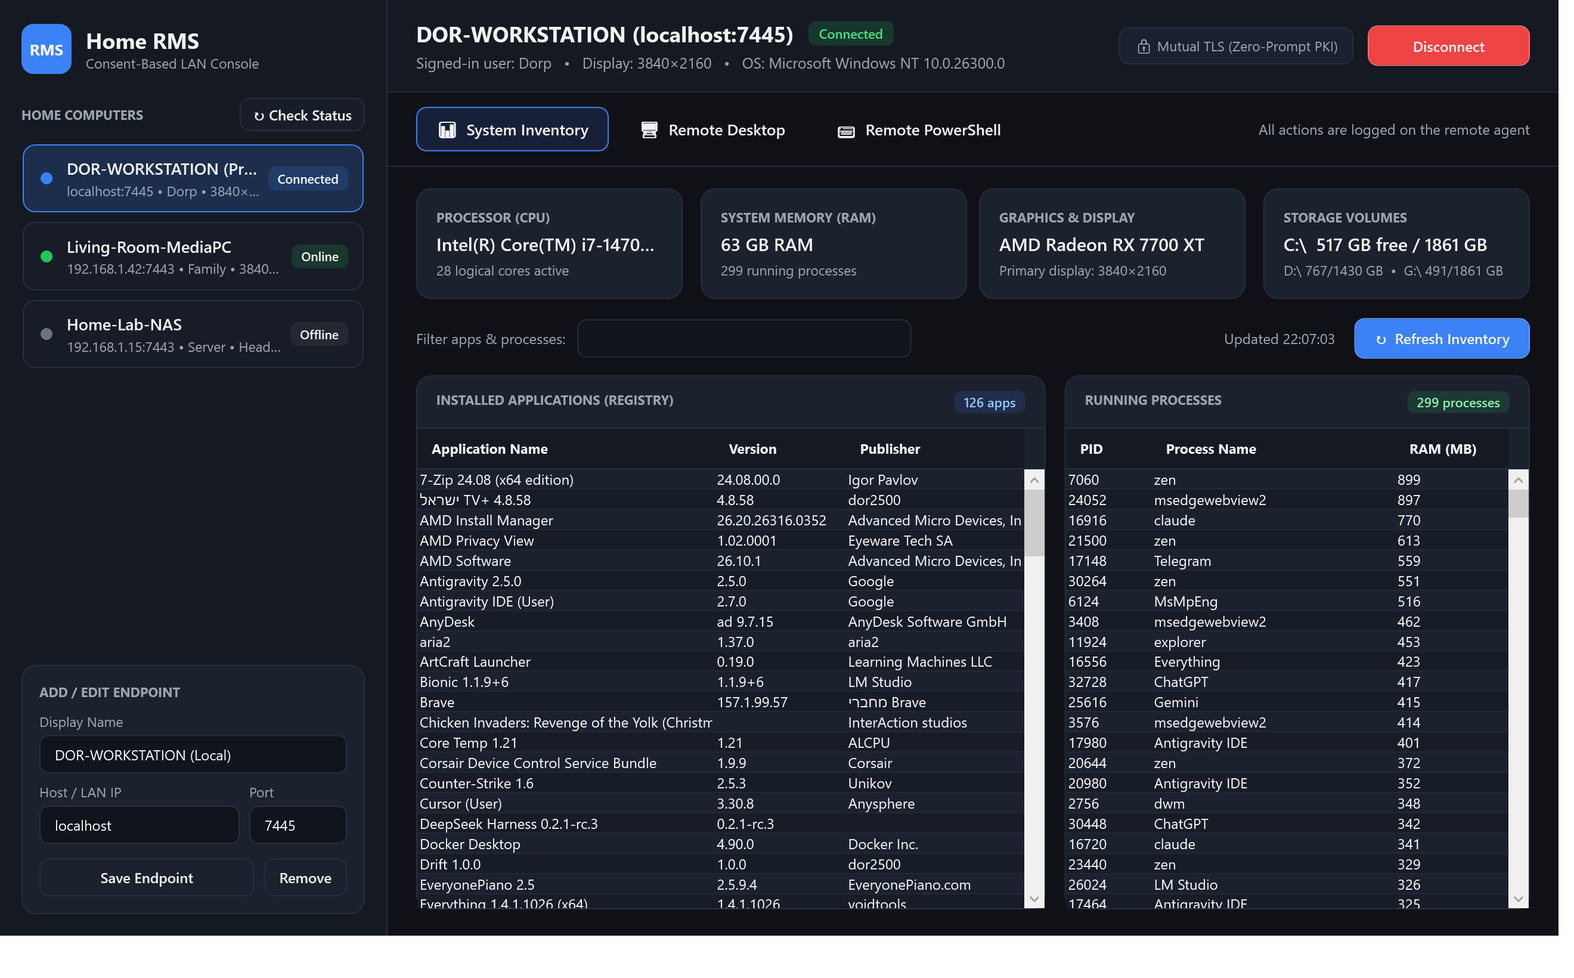
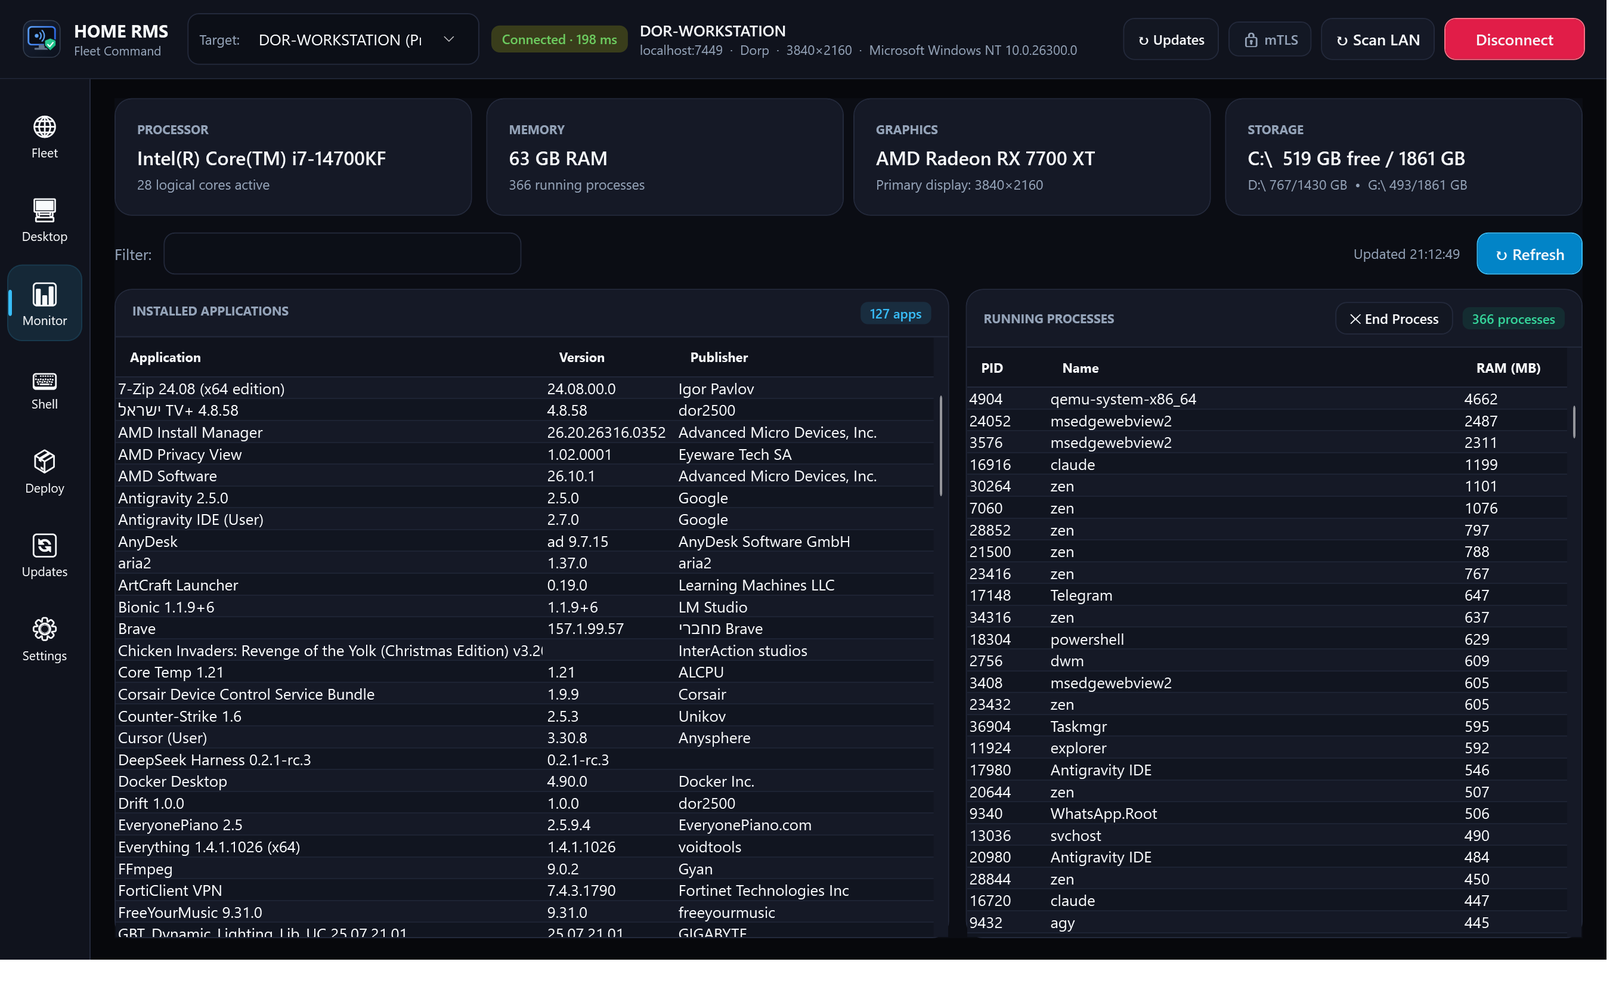
feat(v1.2.0): full platform installers, layout polish, and updated UI/UX screenshots

diff --git a/src/HomeRms.Controller/MainWindow.xaml b/src/HomeRms.Controller/MainWindow.xaml
@@ -17,38 +17,38 @@
         <!-- ==================== TOP GLOBAL COMMAND BAR ==================== -->
         <Border x:Name="TopBarBorder" Grid.Row="0" Background="{StaticResource SurfaceBrush}"
                 BorderBrush="{StaticResource LineBrush}" BorderThickness="0,0,0,1" Padding="18,11">
-            <DockPanel>
+            <DockPanel LastChildFill="True">
                 <!-- Right Action Cluster -->
-                <StackPanel DockPanel.Dock="Right" Orientation="Horizontal" VerticalAlignment="Center">
-                    <Button x:Name="UpdateBtn" Content="↻ Check Updates" Style="{StaticResource SmallPillButton}"
-                            Margin="0,0,10,0" ToolTip="Check GitHub Releases (dor2500/home-rms) for updates"
+                <StackPanel DockPanel.Dock="Right" Orientation="Horizontal" VerticalAlignment="Center" Margin="12,0,0,0">
+                    <Button x:Name="UpdateBtn" Content="↻ Updates" Style="{StaticResource SmallPillButton}"
+                            Margin="0,0,8,0" ToolTip="Check GitHub Releases (dor2500/home-rms) for updates"
                             Click="OnCheckOrApplyUpdateClick"/>
                     <Border Background="#131824" BorderBrush="{StaticResource LineBrush}" BorderThickness="1"
-                            CornerRadius="8" Padding="11,6" Margin="0,0,10,0" VerticalAlignment="Center">
-                        <TextBlock Text="🔒 mTLS PKI" FontSize="11.5" FontWeight="SemiBold" Foreground="{StaticResource MutedBrush}"/>
+                            CornerRadius="8" Padding="10,6" Margin="0,0,8,0" VerticalAlignment="Center">
+                        <TextBlock Text="🔒 mTLS" FontSize="11.5" FontWeight="SemiBold" Foreground="{StaticResource MutedBrush}"/>
                     </Border>
                     <Button x:Name="ProbeBtn" Content="↻ Scan LAN" Style="{StaticResource GhostButton}"
-                            Padding="12,7" Margin="0,0,10,0" Click="OnProbeMachinesClick"/>
-                    <Button x:Name="ConnectBtn" Content="Connect" Width="128"
+                            Padding="11,7" Margin="0,0,8,0" Click="OnProbeMachinesClick"/>
+                    <Button x:Name="ConnectBtn" Content="Connect" Width="118"
                             Style="{StaticResource PrimaryButton}" Click="OnConnectClick"/>
                 </StackPanel>
 
                 <!-- Left Brand + Active Machine Switcher -->
-                <StackPanel Orientation="Horizontal" VerticalAlignment="Center">
-                    <Image Source="Assets/controller.png" Width="34" Height="34" Margin="0,0,12,0"
+                <StackPanel DockPanel.Dock="Left" Orientation="Horizontal" VerticalAlignment="Center">
+                    <Image Source="Assets/controller.png" Width="34" Height="34" Margin="0,0,10,0"
                            RenderOptions.BitmapScalingMode="HighQuality"/>
-                    <StackPanel VerticalAlignment="Center" Margin="0,0,22,0">
+                    <StackPanel VerticalAlignment="Center" Margin="0,0,16,0">
                         <TextBlock Text="HOME RMS" FontSize="14.5" FontWeight="Bold"/>
                         <TextBlock Text="Fleet Command" FontSize="10.5" Foreground="{StaticResource MutedBrush}"/>
                     </StackPanel>
 
                     <!-- Machine Selector Pill -->
                     <Border Background="{StaticResource FieldBrush}" BorderBrush="{StaticResource LineBrush}"
-                            BorderThickness="1" CornerRadius="9" Padding="10,4" Margin="0,0,12,0">
+                            BorderThickness="1" CornerRadius="9" Padding="9,4" Margin="0,0,10,0">
                         <StackPanel Orientation="Horizontal" VerticalAlignment="Center">
                             <TextBlock Text="Target:" FontSize="11.5" Foreground="{StaticResource MutedBrush}"
-                                       VerticalAlignment="Center" Margin="0,0,8,0"/>
-                            <ComboBox x:Name="MachineSwitcher" Width="230" Background="Transparent"
+                                       VerticalAlignment="Center" Margin="0,0,6,0"/>
+                            <ComboBox x:Name="MachineSwitcher" Width="185" Background="Transparent"
                                       Foreground="{StaticResource TextBrush}" BorderThickness="0"
                                       DisplayMemberPath="DisplayTitle"
                                       SelectionChanged="OnMachineSwitcherChanged"/>
@@ -56,16 +56,17 @@
                     </Border>
 
                     <Border x:Name="ConnBadgeBorder" Background="#256B7280" CornerRadius="7"
-                            Padding="10,4" Margin="0,0,12,0" VerticalAlignment="Center">
+                            Padding="9,4" Margin="0,0,10,0" VerticalAlignment="Center">
                         <TextBlock x:Name="ConnBadgeText" Text="Disconnected" FontSize="11"
                                    FontWeight="SemiBold" Foreground="{StaticResource MutedBrush}"/>
                     </Border>
+                </StackPanel>
 
-                    <StackPanel VerticalAlignment="Center">
-                        <TextBlock x:Name="TargetTitleText" Text="No active session" FontSize="13" FontWeight="SemiBold"/>
-                        <TextBlock x:Name="StatusText" Text="Select a machine in Fleet or Scan LAN to connect."
-                                   FontSize="11" Foreground="{StaticResource MutedBrush}" MaxWidth="360" TextTrimming="CharacterEllipsis"/>
-                    </StackPanel>
+                <!-- Center Status (fills remaining space cleanly without ever overlapping buttons) -->
+                <StackPanel VerticalAlignment="Center">
+                    <TextBlock x:Name="TargetTitleText" Text="No active session" FontSize="13" FontWeight="SemiBold" TextTrimming="CharacterEllipsis"/>
+                    <TextBlock x:Name="StatusText" Text="Select a machine in Fleet or Scan LAN to connect."
+                               FontSize="11" Foreground="{StaticResource MutedBrush}" TextTrimming="CharacterEllipsis"/>
                 </StackPanel>
             </DockPanel>
         </Border>
@@ -227,37 +228,37 @@
 
                 <!-- ==================== 2. REMOTE DESKTOP VIEW ==================== -->
                 <DockPanel x:Name="DesktopPanel" Visibility="Collapsed">
-                    <Border x:Name="DesktopToolbarBorder" DockPanel.Dock="Top" Style="{StaticResource CardStyle}" Padding="14,10" Margin="0,0,0,12">
+                    <Border x:Name="DesktopToolbarBorder" DockPanel.Dock="Top" Style="{StaticResource CardStyle}" Padding="12,10" Margin="0,0,0,12">
                         <DockPanel>
-                            <StackPanel DockPanel.Dock="Right" Orientation="Horizontal" VerticalAlignment="Center">
+                            <StackPanel DockPanel.Dock="Right" Orientation="Horizontal" VerticalAlignment="Center" Margin="10,0,0,0">
                                 <Button Content="📋 Paste" Style="{StaticResource SmallPillButton}" Margin="0,0,6,0" Click="OnSendClipboardClick"/>
-                                <Button Content="📥 Copy" Style="{StaticResource SmallPillButton}" Margin="0,0,10,0" Click="OnGetClipboardClick"/>
+                                <Button Content="📥 Copy" Style="{StaticResource SmallPillButton}" Margin="0,0,8,0" Click="OnGetClipboardClick"/>
                                 <Border Background="#0B0D14" BorderBrush="{StaticResource LineBrush}" BorderThickness="1"
-                                        CornerRadius="7" Padding="10,5" Margin="0,0,10,0">
+                                        CornerRadius="7" Padding="9,5" Margin="0,0,8,0">
                                     <TextBlock x:Name="StreamStatus" Text="Idle" FontSize="11.5" Foreground="{StaticResource MutedBrush}"/>
                                 </Border>
-                                <Button x:Name="FullScreenBtn" Content="⛶ Full Screen (F11)" Style="{StaticResource GhostButton}" Padding="11,6" Click="OnToggleFullScreenClick"/>
+                                <Button x:Name="FullScreenBtn" Content="⛶ Full Screen (F11)" Style="{StaticResource GhostButton}" Padding="10,6" Click="OnToggleFullScreenClick"/>
                             </StackPanel>
 
-                            <StackPanel Orientation="Horizontal" VerticalAlignment="Center">
-                                <Button x:Name="StreamBtn" Content="▶ Start Stream" Width="136" Style="{StaticResource PrimaryButton}" Padding="12,7" Click="OnToggleStream"/>
-                                <CheckBox x:Name="ControlCheck" Content="Control + Copy/Paste" Margin="14,0,0,0" Checked="OnControlCheckChanged" Unchecked="OnControlCheckChanged"/>
-                                <Border Width="1" Height="20" Background="{StaticResource LineBrush}" Margin="14,0"/>
-                                <TextBlock Text="FPS:" Foreground="{StaticResource MutedBrush}" VerticalAlignment="Center" Margin="0,0,5,0"/>
-                                <TextBox x:Name="FpsBox" Text="20" Width="40" Margin="0,0,10,0"/>
-                                <TextBlock Text="Quality:" Foreground="{StaticResource MutedBrush}" VerticalAlignment="Center" Margin="0,0,5,0"/>
-                                <TextBox x:Name="QualityBox" Text="65" Width="40" Margin="0,0,10,0"/>
-                                <ComboBox x:Name="ScaleBox" Width="114" SelectedIndex="0" Margin="0,0,8,0" Background="#0C0F17" Foreground="#F8FAFC" BorderBrush="#23293B">
+                            <WrapPanel Orientation="Horizontal" VerticalAlignment="Center">
+                                <Button x:Name="StreamBtn" Content="▶ Start Stream" Width="126" Style="{StaticResource PrimaryButton}" Padding="10,7" Click="OnToggleStream"/>
+                                <CheckBox x:Name="ControlCheck" Content="Control" Margin="12,0,0,0" Checked="OnControlCheckChanged" Unchecked="OnControlCheckChanged"/>
+                                <Border Width="1" Height="20" Background="{StaticResource LineBrush}" Margin="12,0"/>
+                                <TextBlock Text="FPS:" Foreground="{StaticResource MutedBrush}" VerticalAlignment="Center" Margin="0,0,4,0"/>
+                                <TextBox x:Name="FpsBox" Text="20" Width="38" Margin="0,0,8,0"/>
+                                <TextBlock Text="Q:" Foreground="{StaticResource MutedBrush}" VerticalAlignment="Center" Margin="0,0,4,0"/>
+                                <TextBox x:Name="QualityBox" Text="65" Width="38" Margin="0,0,8,0"/>
+                                <ComboBox x:Name="ScaleBox" Width="106" SelectedIndex="0" Margin="0,0,6,0" Background="#0C0F17" Foreground="#F8FAFC" BorderBrush="#23293B">
                                     <ComboBoxItem Content="1080p (Fast)" Tag="1920"/>
                                     <ComboBoxItem Content="720p (Ultra)" Tag="1280"/>
-                                    <ComboBoxItem Content="Native (Full)" Tag="0"/>
+                                    <ComboBoxItem Content="Native" Tag="0"/>
                                 </ComboBox>
-                                <ComboBox x:Name="UpscaleBox" Width="92" SelectedIndex="0" SelectionChanged="OnUpscaleModeChanged" Background="#0C0F17" Foreground="#F8FAFC" BorderBrush="#23293B">
+                                <ComboBox x:Name="UpscaleBox" Width="76" SelectedIndex="0" SelectionChanged="OnUpscaleModeChanged" Background="#0C0F17" Foreground="#F8FAFC" BorderBrush="#23293B">
                                     <ComboBoxItem Content="Sharp+" Tag="cas"/>
                                     <ComboBoxItem Content="Sharp" Tag="bicubic"/>
                                     <ComboBoxItem Content="Off" Tag="none"/>
                                 </ComboBox>
-                            </StackPanel>
+                            </WrapPanel>
                         </DockPanel>
                     </Border>
 

diff --git a/src/HomeRms.Agent/Program.cs b/src/HomeRms.Agent/Program.cs
@@ -1,4 +1,5 @@
 using System.Diagnostics;
+using System.Reflection;
 using System.Runtime.Versioning;
 using System.Windows.Forms;
 using HomeRms.Agent.Core;
@@ -8,6 +9,7 @@ using HomeRms.Agent.Ui;
 using HomeRms.Shared;
 using HomeRms.Shared.Security;
 using Microsoft.Extensions.Hosting;
+using Microsoft.Win32;
 
 namespace HomeRms.Agent;
 
@@ -17,6 +19,17 @@ internal static class Program
     [STAThread]
     private static void Main(string[] args)
     {
+        if (args.Any(a => string.Equals(a, "--install", StringComparison.OrdinalIgnoreCase)))
+        {
+            InstallAgent(args);
+            return;
+        }
+        if (args.Any(a => string.Equals(a, "--uninstall", StringComparison.OrdinalIgnoreCase)))
+        {
+            UninstallAgent();
+            return;
+        }
+
         // Opt-in elevation: "HomeRmsAgent.exe --elevate" relaunches itself via the UAC prompt so
         // system-level controls (services, Windows Update, registry HKLM...) work. By default the
         // agent stays un-elevated (least privilege).
@@ -130,5 +143,66 @@ internal static class Program
             if (string.Equals(args[i], flag, StringComparison.OrdinalIgnoreCase))
                 return args[i + 1];
         return null;
+    }
+
+    private static void InstallAgent(string[] args)
+    {
+        var silent = args.Any(a => a is "--silent" or "/S");
+        var installDir = Path.Combine(
+            Environment.GetFolderPath(Environment.SpecialFolder.LocalApplicationData),
+            "Programs", "HomeRMS", "Agent");
+        var targetExe = Path.Combine(installDir, "HomeRmsAgent.exe");
+
+        foreach (var p in Process.GetProcessesByName("HomeRmsAgent"))
+        {
+            if (p.Id != Environment.ProcessId)
+                try { p.Kill(); p.WaitForExit(3000); } catch { }
+        }
+
+        Directory.CreateDirectory(installDir);
+        var srcExe = Environment.ProcessPath!;
+        if (!string.Equals(srcExe, targetExe, StringComparison.OrdinalIgnoreCase))
+            File.Copy(srcExe, targetExe, overwrite: true);
+
+        // Register Windows Startup (Run at sign-in)
+        using (var runKey = Registry.CurrentUser.CreateSubKey(@"Software\Microsoft\Windows\CurrentVersion\Run"))
+            runKey.SetValue("HomeRmsAgent", $"\"{targetExe}\"");
+
+        // Register in Apps & Features
+        var ver = Assembly.GetExecutingAssembly().GetName().Version;
+        var verStr = ver is not null ? $"{ver.Major}.{ver.Minor}.{ver.Build}" : "1.2.0";
+        using (var uninst = Registry.CurrentUser.CreateSubKey(@"Software\Microsoft\Windows\CurrentVersion\Uninstall\HomeRmsAgent"))
+        {
+            uninst.SetValue("DisplayName", "Home RMS Endpoint Agent");
+            uninst.SetValue("DisplayVersion", verStr);
+            uninst.SetValue("Publisher", "Home RMS (dor2500)");
+            uninst.SetValue("DisplayIcon", targetExe);
+            uninst.SetValue("InstallLocation", installDir);
+            uninst.SetValue("UninstallString", $"\"{targetExe}\" --uninstall");
+            uninst.SetValue("NoModify", 1, RegistryValueKind.DWord);
+            uninst.SetValue("NoRepair", 1, RegistryValueKind.DWord);
+        }
+
+        EnsureFirewallRules(RmsPaths.DefaultPort);
+        Process.Start(new ProcessStartInfo { FileName = targetExe, UseShellExecute = true });
+
+        if (!silent)
+            MessageBox.Show($"Home RMS Agent installed to:\n{installDir}\n\nIt will start automatically with Windows and auto-update from GitHub.",
+                "Home RMS Agent — Installed", MessageBoxButtons.OK, MessageBoxIcon.Information);
+    }
+
+    private static void UninstallAgent()
+    {
+        foreach (var p in Process.GetProcessesByName("HomeRmsAgent"))
+        {
+            if (p.Id != Environment.ProcessId)
+                try { p.Kill(); p.WaitForExit(3000); } catch { }
+        }
+        using (var runKey = Registry.CurrentUser.OpenSubKey(@"Software\Microsoft\Windows\CurrentVersion\Run", writable: true))
+            runKey?.DeleteValue("HomeRmsAgent", throwOnMissingValue: false);
+        Registry.CurrentUser.DeleteSubKeyTree(@"Software\Microsoft\Windows\CurrentVersion\Uninstall\HomeRmsAgent", throwOnMissingSubKey: false);
+
+        MessageBox.Show("Home RMS Agent has been unregistered from startup and Apps & Features.",
+            "Home RMS Agent — Uninstalled", MessageBoxButtons.OK, MessageBoxIcon.Information);
     }
 }

diff --git a/src/HomeRms.Controller.Mac/MainWindow.axaml.cs b/src/HomeRms.Controller.Mac/MainWindow.axaml.cs
@@ -73,8 +73,62 @@ public partial class MainWindow : Window
             "Select any .exe, .msi, .msp, or .ps1 file above to stream it over mTLS and install it silently on the remote Windows computer.\r\n" +
             "--------------------------------------------------------------------------------------------------------------------\r\n";
 
-        Opened += async (_, _) => await ProbeAllMachinesAsync();
+        Opened += async (_, _) =>
+        {
+            await ProbeAllMachinesAsync();
+            _ = CheckGitHubUpdateInBackgroundAsync();
+        };
         Closed += (_, _) => Disconnect();
+    }
+
+    private string? _pendingUpdateTag;
+
+    private async Task CheckGitHubUpdateInBackgroundAsync()
+    {
+        try
+        {
+            await Task.Delay(2500);
+            var ver = typeof(MainWindow).Assembly.GetName().Version ?? new Version(1, 0, 0);
+            var cur = new Version(ver.Major, ver.Minor, ver.Build);
+            using var http = new System.Net.Http.HttpClient { Timeout = TimeSpan.FromSeconds(10) };
+            http.DefaultRequestHeaders.UserAgent.ParseAdd("HomeRmsControllerMac-Updater/1.0");
+            var json = await http.GetStringAsync("https://api.github.com/repos/dor2500/home-rms/releases/latest");
+            using var doc = System.Text.Json.JsonDocument.Parse(json);
+            var tag = doc.RootElement.TryGetProperty("tag_name", out var t) ? t.GetString() ?? "" : "";
+            var clean = tag.Trim().TrimStart('v', 'V').Split('-')[0];
+            if (Version.TryParse(clean, out var remote) && remote > cur)
+            {
+                _pendingUpdateTag = tag;
+                UpdateBtn.Content = $"⬇ Update {tag}";
+                UpdateBtn.Background = new SolidColorBrush(Color.FromRgb(16, 185, 129));
+                UpdateBtn.Foreground = Brushes.White;
+            }
+            else
+            {
+                UpdateBtn.Content = $"v{cur} ✓";
+            }
+        }
+        catch { }
+    }
+
+    private void OnCheckOrApplyUpdateClick(object? sender, RoutedEventArgs e)
+    {
+        if (_pendingUpdateTag is not null)
+        {
+            try
+            {
+                Process.Start(new ProcessStartInfo
+                {
+                    FileName = "https://github.com/dor2500/home-rms/releases/latest",
+                    UseShellExecute = true
+                });
+            }
+            catch { }
+        }
+        else
+        {
+            _ = CheckGitHubUpdateInBackgroundAsync();
+        }
     }
 
     // ---------------- Navigation ----------------

diff --git a/src/HomeRms.Controller/MainWindow.xaml.cs b/src/HomeRms.Controller/MainWindow.xaml.cs
@@ -1502,6 +1502,12 @@ public partial class MainWindow : Window
 
         await ConnectToCurrentFieldsAsync();
         await Task.Delay(500);
+        NavFleet.IsChecked = true;
+        await Task.Delay(350);
+        SaveWindowPng(Path.Combine(outDir, "controller-fleet.png"));
+
+        NavInventory.IsChecked = true;
+        await Task.Delay(350);
         SaveWindowPng(Path.Combine(outDir, "controller-inventory.png"));
 
         // Switch to Shell tab, run a real PowerShell command, capture screenshot
@@ -1518,6 +1524,11 @@ public partial class MainWindow : Window
         await Task.Delay(1200);
         SaveWindowPng(Path.Combine(outDir, "controller-desktop.png"));
         StopStream();
+
+        // Switch to Settings (Windows 11 Settings UI)
+        NavSystem.IsChecked = true;
+        await Task.Delay(400);
+        SaveWindowPng(Path.Combine(outDir, "controller-settings.png"));
 
         Application.Current.Shutdown(0);
     }

diff --git a/README.md b/README.md
@@ -14,22 +14,27 @@
 
 ## Visual Tour & Screenshots
 
-### 1. Controller Console — System Inventory & Hardware Dashboard
-Displays saved home computers with live online/offline status probing, hardware summary cards (CPU, RAM, GPU & Display, Storage Volumes), real-time search filtering, installed applications (from the Windows Registry), and active processes sorted by memory usage.
+### 1. Fleet Command Center — Multi-PC Dashboard
+Top Global Command Bar with instant target switching, live ping, GitHub Auto-Updater pill, and a slim 76px icon rail giving 93% of the screen to your workspace.
+
+![Controller — Fleet Overview](docs/screenshots/controller-fleet.png)
+
+### 2. Monitor & System Inventory — Hardware, Apps & Processes
+Displays hardware summary cards (CPU, RAM, GPU, Storage), real-time search filtering, installed applications, and active processes with one-click termination.
 
 ![Controller — System Inventory](docs/screenshots/controller-inventory.png)
 
-### 2. Controller Console — Live Remote Desktop & Input Control
-Streams the remote desktop over gRPC/HTTP2 with configurable target FPS and JPEG quality, letterboxing-aware coordinate mapping, and live mouse/keyboard injection via Win32 `SendInput`.
+### 3. Live Remote Desktop & Input Control
+Streams the remote desktop over gRPC/HTTP2 with GPU Sharp+ upscaling, remote cursor overlay, `1080p/720p/Native` scaling, `F11` Full Screen mode, and bidirectional Copy-Paste.
 
 ![Controller — Remote Desktop](docs/screenshots/controller-desktop.png)
 
-### 3. Controller Console — Interactive Remote PowerShell
-Full bidirectional PowerShell session over Mutual TLS with one-click diagnostic quick-commands (`whoami & hostname`, `IP Configuration`, `Top CPU Processes`, `Disk Volumes`, `Uptime`) and command history (`Up`/`Down` arrows).
+### 4. Interactive Remote PowerShell
+Full bidirectional PowerShell session over Mutual TLS with one-click diagnostic quick-commands and command history (`Up`/`Down` arrows).
 
 ![Controller — Remote PowerShell](docs/screenshots/controller-shell.png)
 
-### 4. Client Agent — Endpoint Monitor & Live Activity Audit Log
+### 5. Client Agent — Endpoint Monitor & Live Activity Audit Log
 Runs in the signed-in user's interactive session with a system tray icon, status cards, active session indicator, one-click **Stop Session** revocation button, and a live timestamped audit log of every remote action.
 
 ![Agent — Endpoint Monitor](docs/screenshots/agent-status.png)
@@ -92,6 +97,28 @@ Unlike covert surveillance tools, **Home RMS** is designed around transparency a
   - **Security model:** every action maps to a *fixed, allowlisted* PowerShell script; user values are strictly validated (regex / ranges) and passed via environment variables, never concatenated into script text. SAM/SECURITY hives are blocked. Every call is written to the agent's audit log. The agent runs **un-elevated by default**; start it with `HomeRmsAgent.exe --elevate` (UAC prompt) to enable system-level changes.
 - **Remote PowerShell (`RemoteManagementService.Shell`):**
   - Spawns an isolated, hidden `powershell.exe` process connected to a gRPC bidirectional stream (`AsyncDuplexStreamingCall`), streaming `stdout` and `stderr` in real time.
+
+---
+
+## One-Line Platform Installation (No Portable Exes Needed)
+
+### Windows Controller (Setup Wizard + GitHub Auto-Update)
+```powershell
+irm https://raw.githubusercontent.com/dor2500/home-rms/master/tools/install-controller.ps1 | iex
+```
+*(Installs to `%LocalAppData%\Programs\HomeRMS\Controller`, creates Start Menu + Desktop shortcuts, registers in Apps & Features, and checks GitHub Releases for updates automatically.)*
+
+### Windows Endpoint Agent (Installs + Windows Startup + Auto-Update)
+```powershell
+irm https://raw.githubusercontent.com/dor2500/home-rms/master/tools/install-agent.ps1 | iex
+```
+*(Installs to `%LocalAppData%\Programs\HomeRMS\Agent`, configures Windows Startup, opens Firewall port `7443`, and auto-updates from GitHub Releases.)*
+
+### macOS Controller (Installs to `/Applications`)
+```bash
+curl -fsSL https://raw.githubusercontent.com/dor2500/home-rms/master/tools/install-mac.sh | bash
+```
+*(Automatically detects Apple Silicon `arm64` or Intel `x64`, installs `HomeRmsController.app` into `/Applications`, clears Gatekeeper quarantine, and launches it.)*
 
 ---
 
